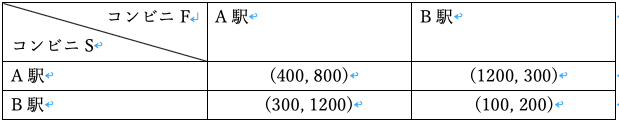
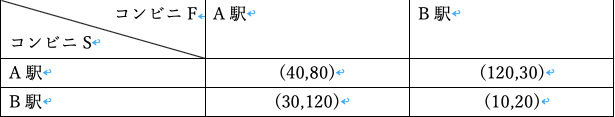
メッセージ

diff --git a/ゲーム理論＃2.html b/ゲーム理論＃2.html
@@ -27,13 +27,13 @@
         </p>
         <h2>モデル１：コンビニ出店戦争</h2>
         <p>A駅とB駅にそれぞれ大手コンビニ２社が出店を検討中。<br>
-            A駅にコンビニができた場合→１２００人/1日<br>
-            B駅にコンビニができた場合→３００人/1日<br>
+            A駅にコンビニができた場合→１２０人/1日<br>
+            B駅にコンビニができた場合→３０人/1日<br>
             もし、両コンビニが違う駅前に出店すれば、その駅の利用客は全て獲得可能とする。<br>
              ーーーーーーーーーーーーーーーーーーーーーーーーーーーーーーーーーーーーーーー<br>
             一方で、両コンビニが同じ駅前に出店すると<br>
-            A駅に二つのコンビニができた場合→コンビニSは４００人・コンビニFは８００人<br>
-            B駅に二つのコンビニができた場合→コンビニSは１００人・コンビニFは２００人<br>
+            A駅に二つのコンビニができた場合→コンビニSは４０人・コンビニFは８０人<br>
+            B駅に二つのコンビニができた場合→コンビニSは１０人・コンビニFは２０人<br>
             の利用客が見込める<br>
             
             
